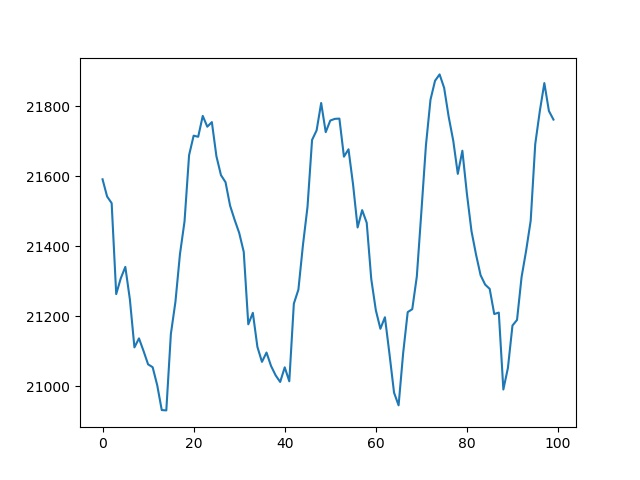
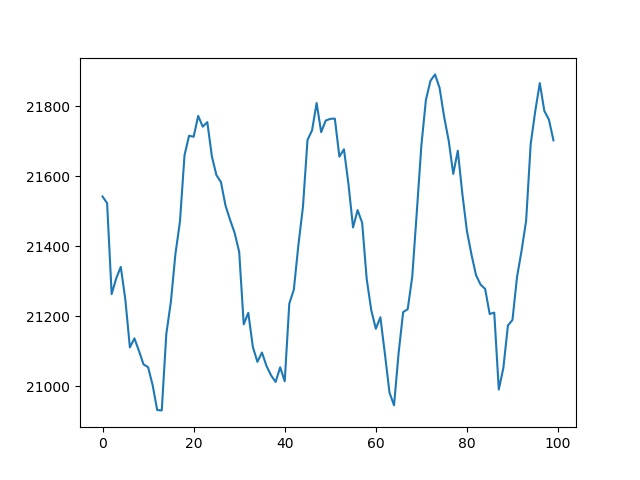
'auto'

Changed region(s): [[0.1562, 0.1562, 0.875, 0.875]]

diff --git a/README.md b/README.md
@@ -1,5 +1,5 @@
 Frizider live: 5
-21761.541666666668 
+21702.28333333333 
 0
 Temperatura:
 
